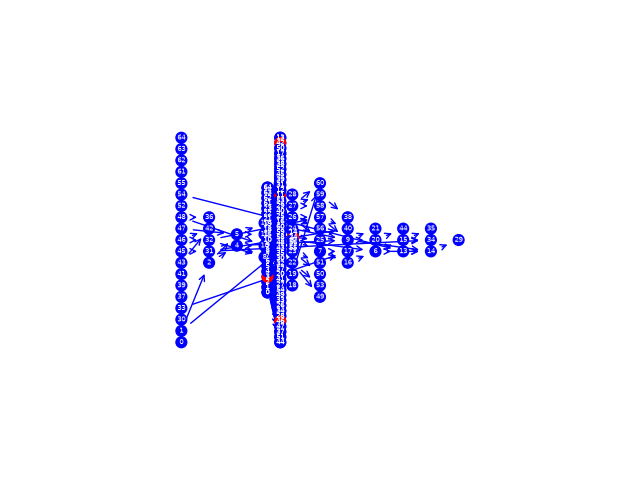
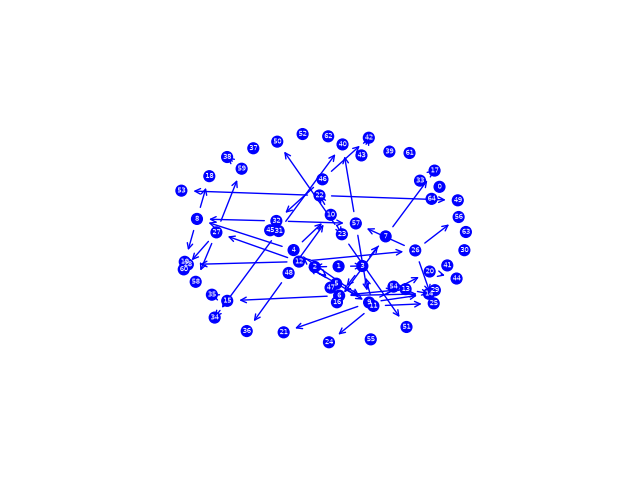
Molhorando grafo gerado

Changed region(s): [[0.25, 0.25, 0.75, 0.7188], [0.5, 0.6875, 0.5312, 0.75], [0.5625, 0.6875, 0.5938, 0.7188]]

diff --git a/src/ref/grapho.py b/src/ref/grapho.py
@@ -123,43 +123,30 @@ def gerar_arestas(funcionarios):
     return edges
 
 def gerar_grafo(arestas,nos, marcados, nome):
-    G = nx.MultiDiGraph()
-    # nos = extrair_nos(arestas)
+    G = nx.DiGraph()
     node_colors = ["blue"] * len(nos)
-    # edge_colors = arestas.copy() # {} #["blue"] * len(arestas)
-    
-    # pprint(arestas)
-    # pprint(nos)
-    # pprint(marcados)
-    # pprint(len(edge_colors))
-    # pprint(len(node_colors))
+
     for u in nos:
         G.add_node(u)
 
     for (u, v) in arestas:
         if (u, v) in marcados and 0 <= u < len(node_colors) and 0 <= v < len(node_colors):
             G.add_edge(u, v, color="red")
-            # pprint((u, v))
             node_colors[nos[u]] = 'red'
             node_colors[nos[v]] = 'red'
         else: 
             G.add_edge(u, v, color="blue")
-            # edge_colors[(u,v)] = 'red'
-            # edge_colors[(v,u)] = 'red'
 
     edges = G.edges()
-    # edge_colors = [G[u][v]['color'] for u,v in edges]
-    edge_colors = ["blue"] * len(arestas)
-    
-    pprint(edge_colors)
-    
-    # arestas = [(u, v, w) for (u, v, w) in G.edges(data=True)]
-    layers = dict(enumerate(nx.topological_generations(G)))
-    pos = nx.multipartite_layout(G, subset_key=layers)
+    #edge_colors = ["blue"] * len(arestas)
+    edge_colors = [G[u][v]['color'] for u,v in edges]
+
+    # layers = dict(enumerate(nx.topological_generations(G)))
+    # pos = nx.multipartite_layout(G, subset_key=layers)
+    pos = nx.spring_layout(G)
 
     # nodes
     nx.draw_networkx_nodes(G, pos, node_size=60, node_color=node_colors, margins=0.3)
-    # nx.draw_networkx_nodes(G, pos, node_size=60)
     
     # edges
     nx.draw_networkx_edges(G, pos, edgelist=arestas, width=1, arrows=True, arrowstyle="->", edge_color=edge_colors)
@@ -174,6 +161,7 @@ def gerar_grafo(arestas,nos, marcados, nome):
     plt.axis("off")
     plt.tight_layout()
     plt.savefig(f"./img/network-func-{nome}.png")
+    plt.clf()
 
 def extrair_nos(arestas):
     nos=[]
